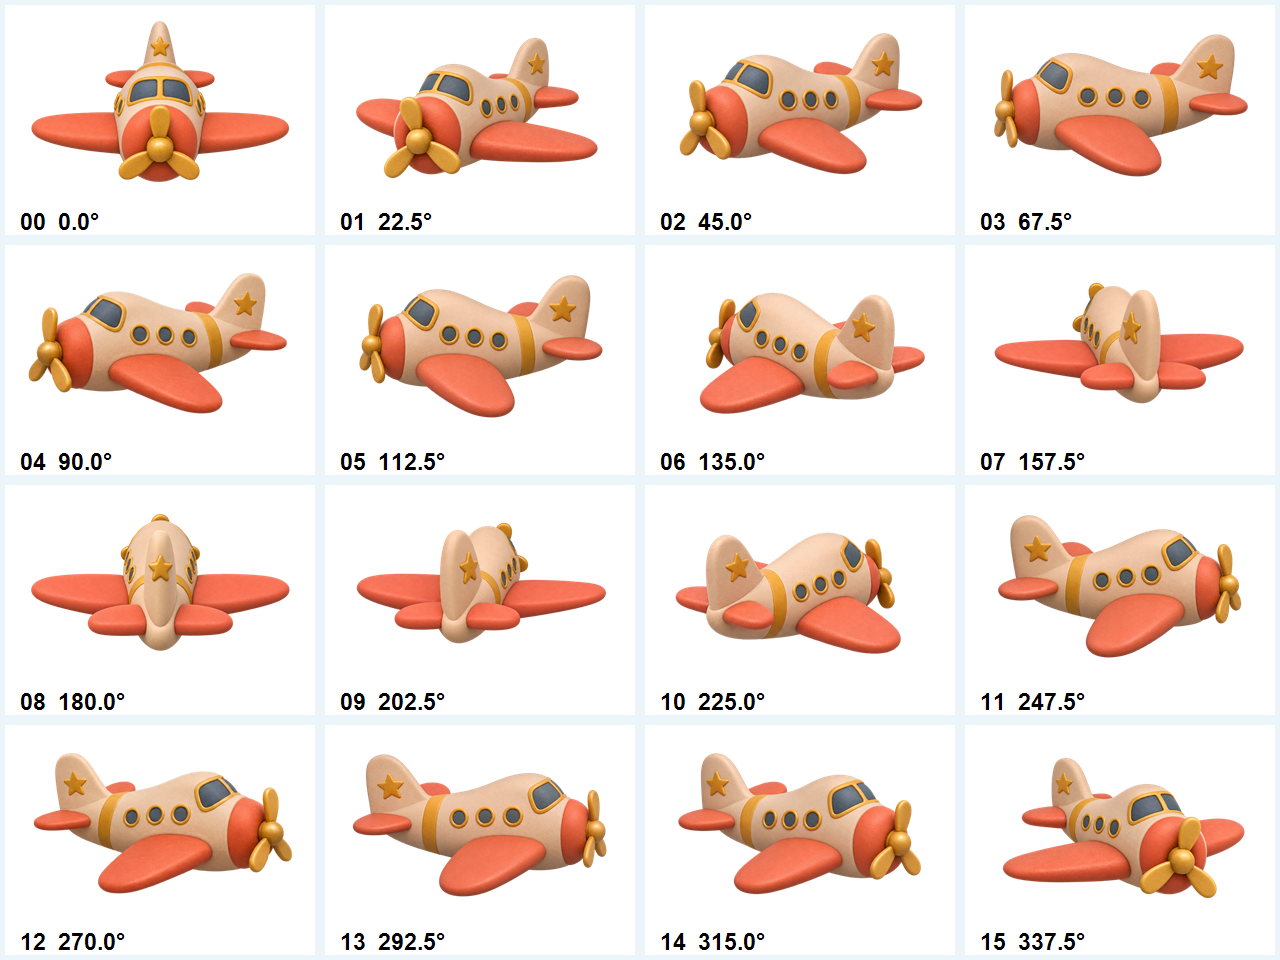
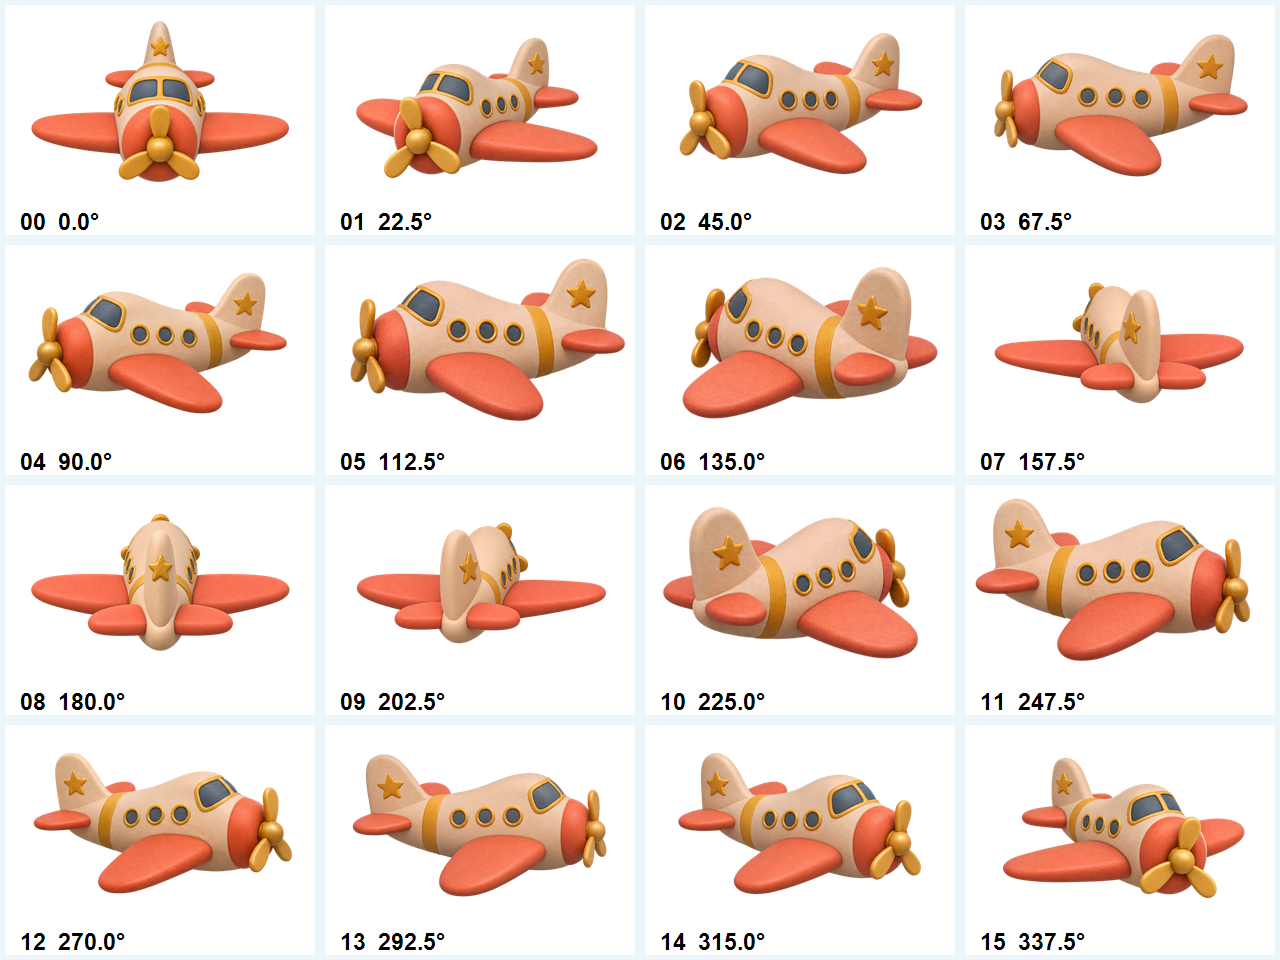
Smooth airplane turn and align compass needle

diff --git a/www/drzava-live-canvas.js b/www/drzava-live-canvas.js
@@ -5,6 +5,7 @@
     const HEIGHT = 1672;
     const LOOP_MS = 12000;
     const ASSET_ROOT = 'assets/theme-live-v3/drzava-sprites/';
+    const SPRITE_VERSION = 2;
     const planeNames = Array.from({ length: 16 }, (_, index) => `plane-turn-${String(index).padStart(2, '0')}`);
     const names = [
         'plane-atlas', 'pin-coral', 'pin-gold', 'pin-africa', 'pin-rose',
@@ -54,7 +55,7 @@
                 decode.then(() => { images.set(name, image); resolve(); });
             };
             image.onerror = () => reject(new Error(`Failed to load ${name}.png`));
-            image.src = `${ASSET_ROOT}${name}.png?v=1`;
+            image.src = `${ASSET_ROOT}${name}.png?v=${SPRITE_VERSION}`;
         });
     }
 
@@ -162,17 +163,11 @@
         const viewPosition = heading / 22.5;
         const firstView = Math.floor(viewPosition);
         const fraction = viewPosition - firstView;
-        if (fraction <= 0.35) {
-            drawPlaneView(firstView, heading, planeX, planeY);
-        } else if (fraction >= 0.65) {
-            drawPlaneView((firstView + 1) % 16, heading, planeX, planeY);
-        } else {
-            const blend = (fraction - 0.35) / 0.30;
-            drawPlaneView(firstView, heading, planeX, planeY, 1 - blend);
-            drawPlaneView((firstView + 1) % 16, heading, planeX, planeY, blend);
-        }
+        const blend = fraction * fraction * (3 - 2 * fraction);
+        drawPlaneView(firstView, heading, planeX, planeY);
+        if (blend > 0) drawPlaneView((firstView + 1) % 16, heading, planeX, planeY, blend);
 
-        const needleAngle = 45 + 6 * Math.sin(theta) + 3 * Math.sin(2 * theta);
+        const needleAngle = 6 * Math.sin(theta) + 3 * Math.sin(2 * theta);
         sprite('compass-needle', 742, 1445, 180, 132, needleAngle);
     }
 

diff --git a/www/theme-live-png.js b/www/theme-live-png.js
@@ -39,7 +39,7 @@
             window.DrzavaLiveCanvas?.hide();
             if (image.parentElement !== active) active.appendChild(image);
             const source = theme === 'drzava'
-                ? 'assets/theme-live-v3/drzava-live.png?v=8'
+                ? 'assets/theme-live-v3/drzava-live.png?v=9'
                 : `assets/theme-live-v2/${theme}-live.png`;
             if (image.getAttribute('src') !== source) {
                 image.hidden = true;

diff --git a/www/index.html b/www/index.html
@@ -1385,8 +1385,8 @@
         }
     </script>
     <script src="vendor/gsap.min.js"></script>
-    <script src="drzava-live-canvas.js?v=1"></script>
-    <script src="theme-live-png.js?v=10"></script>
+    <script src="drzava-live-canvas.js?v=2"></script>
+    <script src="theme-live-png.js?v=11"></script>
     <script src="splash-atmosphere-gsap.js"></script>
     <script type="module" src="splash-logo-3d.js"></script>
     <script src="game.js"></script>

diff --git a/background-concepts/drzava-live-v3-spec.md b/background-concepts/drzava-live-v3-spec.md
@@ -12,13 +12,13 @@ Pokretni detalji su izrađeni kao odvojeni providni PNG fajlovi u `background-co
 - Pinovi: `pin-coral.png`, `pin-gold.png`, `pin-africa.png` i `pin-rose.png` na Severnoj Americi, Evropi, južnijem središnjem delu Afrike prema Madagaskaru i Južnoj Americi. Svi su prikazani u izvornom odnosu širine i visine.
 - Linija: posle udara jednog pina putuje ka sledećem. Kada stigne, taj pin se podiže i udara u mapu; tek njegov udar šalje novu liniju. Krug ide Severna Amerika → Evropa → Afrika → Južna Amerika → Severna Amerika. Linija je deo zasebnih raster kadrova i nije trajno nacrtana na osnovi.
 - Oblaci: `cloud-left.png`, `cloud-middle.png` i `cloud-right.png` blago klize u gornjem delu slike.
-- Kompas: `compass-needle.png` leži iznad statičnog brojčanika sa oznakama i blago menja pravac. Osnovni ugao igle je poravnat sa nagnutim ovalom kompasa.
+- Kompas: `compass-needle.png` leži iznad statičnog brojčanika sa oznakama i blago menja pravac. U neutralnom položaju zlatni krak prati osu `N/S`, a ljubičasti `E/W`; oscilacija je približno ±8° oko te ose.
 
-Aktivan niz aviona je prikazan na `background-concepts/drzava-plane-16-views.png`. Pogledi `00`, `01`, `02`, `03`, `05`, `07` i `08` posebno su generisani imagegen alatom prema ranijim PNG referencama. `04` potiče iz `plane-left.png`, `06` je odraz `plane-away-left.png`; desna polovina (`09`–`15`) zasebni su PNG fajlovi izvedeni kao ogledalski odrazi odgovarajućih levih pogleda. Raniji `plane-sheet.png`, `plane-diagonals-sheet.png` i osam starih PNG pogleda ostaju kao izvori, ali nisu deo aktivne animacije. Pogledi se biraju po stvarnom smeru leta, a ne po položaju na elipsi. Tri prvobitna pina i tri oblaka potiču iz transparentnih imagegen PNG listova `pins-sheet.png` i `clouds-sheet.png`. Listovi su razdvojeni skriptom `scripts/split-drzava-v3-sprites.ps1`; `pin-africa.png` i `compass-needle.png` su zasebno generisani PNG fajlovi.
+Aktivan niz aviona je prikazan na `background-concepts/drzava-plane-16-views.png`. Pogledi `00`, `01`, `02`, `03`, `07` i `08` generisani su imagegen alatom prema ranijim PNG referencama. `04` potiče iz `plane-left.png`. Prelaz od bočnog ka zadnjem pogledu iznova je napravljen kao jedna usklađena imagegen tabla `plane-side-rear-sheet.png`: skripta `scripts/split-drzava-turn-transition.ps1` izdvaja `05` i `06`, zatim njihove simetrične parove `11` i `10`. Ostali pogledi desne polovine (`09`, `12`–`15`) zasebni su PNG fajlovi izvedeni kao ogledalski odrazi odgovarajućih levih pogleda. Raniji `plane-sheet.png`, `plane-diagonals-sheet.png` i osam starih PNG pogleda ostaju kao izvori, ali nisu deo aktivne animacije. Pogledi se biraju po stvarnom smeru leta, a ne po položaju na elipsi. Tri prvobitna pina i tri oblaka potiču iz transparentnih imagegen PNG listova `pins-sheet.png` i `clouds-sheet.png`. Listovi su razdvojeni skriptom `scripts/split-drzava-v3-sprites.ps1`; `pin-africa.png` i `compass-needle.png` su zasebno generisani PNG fajlovi.
 
 Imagegen prompt za avion: isti zaobljeni 3D Soft Clay Mat avion, krem trup, koralni nos i krila, tri tamna ovalna prozora sa zlatnim okvirima, tamna dvostruka stakla kabine, zlatna trokraka elisa, zlatna traka i izdignuta zvezda na repu; tačno jedan pogled pod zadatim uglom između susednih referenci, isti nivo kamere, meko osvetljenje odozgo sleva, ceo avion u kadru, providna pozadina, bez teksta, senke tla i drugih objekata. Posebni promptovi za `00` i `08` traže simetričan direktan pogled spreda i otpozadi. Ostali prompts: četiri zaobljena glinena pina u koralnoj, zlatnoj, tirkiznoj i ružičastoj boji; tri različita mekana krem/lavanda oblaka; zlatno-lavanda četvorokraka igla kompasa. Afrički tirkizni pin napravljen je prema referenci postojećih spriteova.
 
-`scripts/build-drzava-runtime-sprites.ps1` priprema 12 malih PNG fajlova za prikaz u aplikaciji: atlas sa svih 16 uglova aviona, pinove, oblake, iglu kompasa, raster pečat za liniju i detalje udara pina. Ukupno imaju oko 1,2 MB. `www/drzava-live-canvas.js` pomera te PNG detalje pomoću `requestAnimationFrame`, po istoj dvanaestosekundnoj putanji i istom rasporedu udara pinova. Dva susedna PNG pogleda aviona kratko se preklapaju tokom zaokreta, da promena ugla bude neprimetna. Statična osnova ostaje zaseban PNG. Animacija se pauzira kada ekran ili aplikacija nisu vidljivi; bez pokretnih PNG fajlova ostaje statična osnova. Nema SVG/CSS animacije pozadine.
+`scripts/build-drzava-runtime-sprites.ps1` priprema 12 malih PNG fajlova za prikaz u aplikaciji: atlas sa svih 16 uglova aviona, pinove, oblake, iglu kompasa, raster pečat za liniju i detalje udara pina. Ukupno imaju oko 1,3 MB. `www/drzava-live-canvas.js` pomera te PNG detalje pomoću `requestAnimationFrame`, po istoj dvanaestosekundnoj putanji i istom rasporedu udara pinova. Dva susedna PNG pogleda aviona postepeno se preklapaju tokom celog intervala od 22,5°, da promena ugla bude blaža. Statična osnova ostaje zaseban PNG. Animacija se pauzira kada ekran ili aplikacija nisu vidljivi; bez pokretnih PNG fajlova ostaje statična osnova. Nema SVG/CSS animacije pozadine.
 
 `scripts/build-drzava-live-v3-frames.ps1` pravi 96 transparentnih PNG kadrova. `scripts/build-theme-live-apng.py` ih pakuje sa statičnom osnovom u `www/assets/theme-live-v3/drzava-live.png` (APNG, 97 kadrova, dvanaest sekundi po ciklusu). APNG je rezervni prikaz ako platneni sloj nije dostupan.
 
